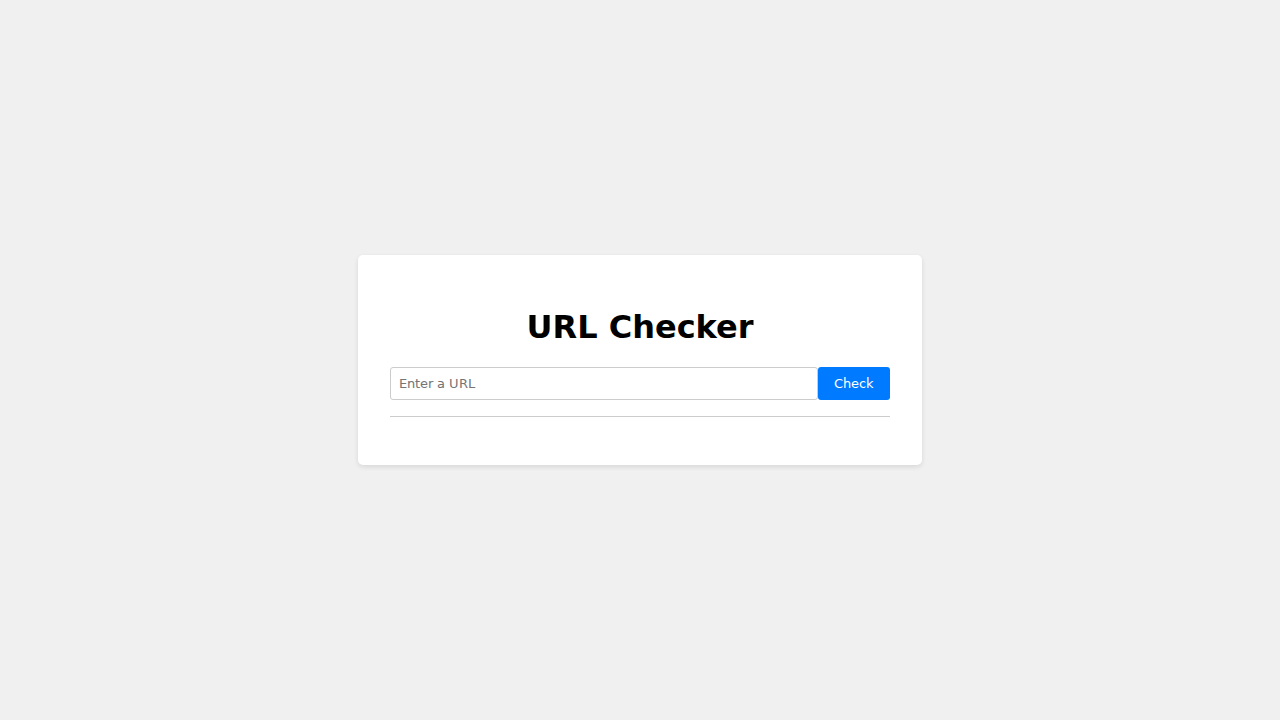
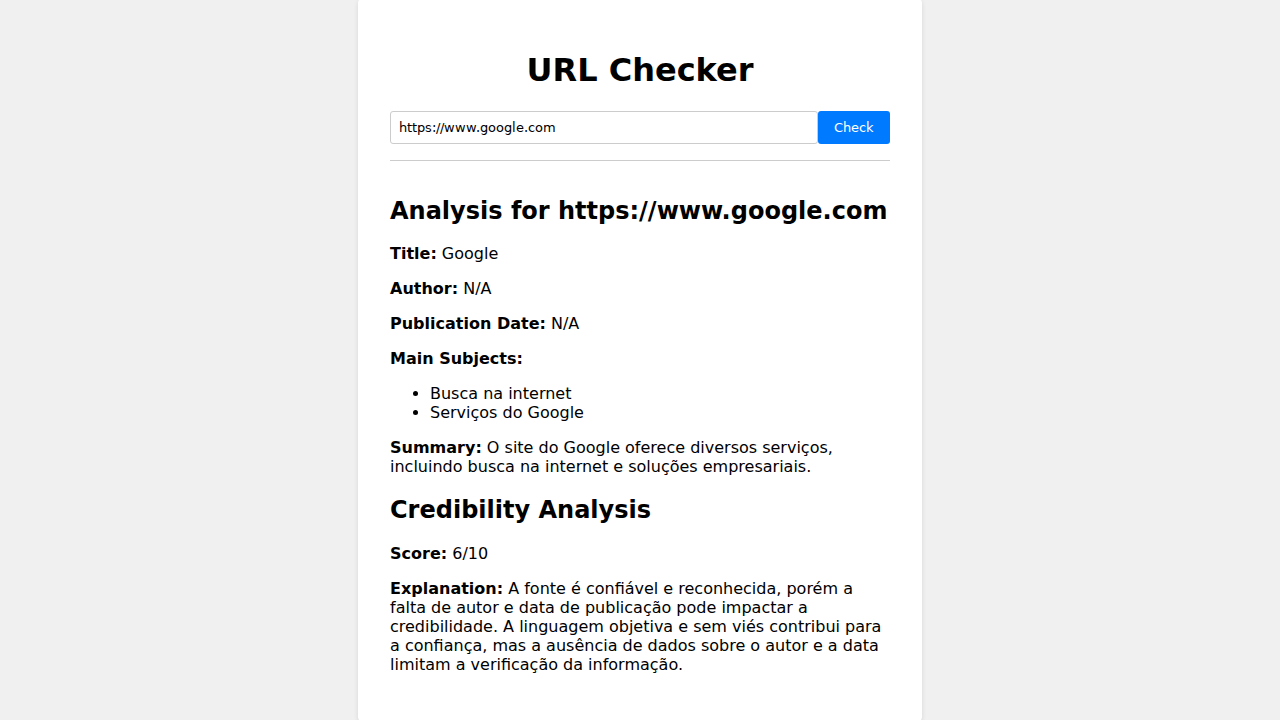
feat: Add credibility analysis feature
This commit enhances the application by turning it into a fact-checking tool.

The backend prompt for the OpenAI API has been significantly updated to include a detailed set of credibility criteria. The LLM is now instructed to return a `credibility_score` (from 1 to 10) and a `credibility_explanation` along with the content summary.

The frontend has been updated to display this new information. The `index.html` file now includes a dedicated section for the credibility analysis, and the `script.js` file has been modified to parse and render the new data fields from the API response. This provides users with a more comprehensive analysis of the URL's content.

diff --git a/frontend/script.js b/frontend/script.js
@@ -15,16 +15,24 @@ form.addEventListener('submit', async (event) => {
             resultsDiv.innerHTML = `<p>Error: ${data.error}</p>`;
         } else {
             const analysis = data.llm_analysis;
+            // Rebuild the entire content of the results div
             resultsDiv.innerHTML = `
-                <h2>Analysis for ${analysis.fonte}</h2>
-                <p><strong>Title:</strong> ${analysis.titulo}</p>
-                <p><strong>Author:</strong> ${analysis.autor || 'N/A'}</p>
-                <p><strong>Publication Date:</strong> ${analysis.data_publicacao || 'N/A'}</p>
-                <p><strong>Main Subjects:</strong></p>
-                <ul>
-                    ${analysis.principais_assuntos.map(subject => `<li>${subject}</li>`).join('')}
-                </ul>
-                <p><strong>Summary:</strong> ${analysis.resumo}</p>
+                <div id="summary">
+                    <h2>Analysis for ${analysis.fonte}</h2>
+                    <p><strong>Title:</strong> ${analysis.titulo}</p>
+                    <p><strong>Author:</strong> ${analysis.autor || 'N/A'}</p>
+                    <p><strong>Publication Date:</strong> ${analysis.data_publicacao || 'N/A'}</p>
+                    <p><strong>Main Subjects:</strong></p>
+                    <ul>
+                        ${analysis.principais_assuntos.map(subject => `<li>${subject}</li>`).join('')}
+                    </ul>
+                    <p><strong>Summary:</strong> ${analysis.resumo}</p>
+                </div>
+                <div id="credibility-analysis">
+                    <h2>Credibility Analysis</h2>
+                    <p><strong>Score:</strong> ${analysis.credibility_score}/10</p>
+                    <p><strong>Explanation:</strong> ${analysis.credibility_explanation}</p>
+                </div>
             `;
         }
     } catch (error) {

diff --git a/frontend/index.html b/frontend/index.html
@@ -13,7 +13,10 @@
             <input type="text" id="url-input" placeholder="Enter a URL" required>
             <button type="submit">Check</button>
         </form>
-        <div id="results"></div>
+        <div id="results">
+            <div id="summary"></div>
+            <div id="credibility-analysis"></div>
+        </div>
     </div>
     <script src="script.js"></script>
 </body>

diff --git a/backend/main.py b/backend/main.py
@@ -32,13 +32,28 @@ client = OpenAI(api_key=openai_api_key)
 
 def build_prompt(content: str, url: str) -> str:
     """
-    Constrói o prompt para a análise do conteúdo pela LLM.
+    Constrói o prompt para a análise do conteúdo e credibilidade pela LLM.
     """
+    credibility_criteria = (
+        "1. Expertise do Autor: O autor é um especialista reconhecido no assunto? A identidade é clara?\n"
+        "2. Qualidade das Fontes: As fontes são citadas, confiáveis e verificáveis?\n"
+        "3. Tom e Viés: A linguagem é objetiva ou tendenciosa/emocional? Distingue fato de opinião?\n"
+        "4. Data de Publicação: A informação está atualizada e a data é visível?\n"
+        "5. Verificação e Corroboração: A informação pode ser verificada por outras fontes independentes?\n"
+        "6. Padrões de Desinformação: Utiliza falácias, manipulação emocional ou títulos enganosos?"
+    )
+
     return (
         f"Analise o seguinte conteúdo extraído do site {url}. "
-        "Retorne um dicionário JSON com os seguintes campos: 'fonte' (a URL original), "
+        "Primeiro, retorne um resumo com os seguintes campos: 'fonte' (a URL original), "
         "'titulo', 'principais_assuntos' (uma lista de strings), 'data_publicacao' (se houver, em formato AAAA-MM-DD), "
-        "'autor' (se houver), e 'resumo' (um resumo objetivo de até 2 linhas)."
+        "'autor' (se houver), e 'resumo' (um resumo objetivo de até 2 linhas).\n\n"
+        "Depois, faça uma análise de credibilidade do conteúdo com base nos seguintes critérios:\n"
+        f"{credibility_criteria}\n\n"
+        "Com base na sua análise, adicione os seguintes campos ao JSON: "
+        "'credibility_score' (um número inteiro de 1 a 10, onde 1 é 'nada confiável' e 10 é 'muito confiável') e "
+        "'credibility_explanation' (uma explicação concisa de até 3 linhas justificando a pontuação com base nos critérios).\n\n"
+        "O formato final deve ser um único dicionário JSON."
         f"\n\nConteúdo para análise:\n'''{content[:4000]}'''" # Limita o conteúdo para evitar exceder o limite de tokens
     )
 

diff --git a/jules-scratch/verification/verify_frontend.py b/jules-scratch/verification/verify_frontend.py
@@ -6,8 +6,19 @@ def run():
         browser = p.chromium.launch()
         page = browser.new_page()
         page.goto('file://' + os.path.abspath('frontend/index.html'))
-        expect(page.locator("h1")).to_have_text("URL Checker")
-        page.screenshot(path="jules-scratch/verification/verification.png")
-        browser.close()
+        page.get_by_placeholder("Enter a URL").fill("https://www.google.com")
+        page.get_by_role("button", name="Check").click()
+
+        try:
+            # Wait for the specific element to appear
+            expect(page.locator("#credibility-analysis h2")).to_contain_text("Credibility Analysis", timeout=15000)
+            page.screenshot(path="jules-scratch/verification/verification.png")
+        except Exception as e:
+            # If it fails, print the content of the results div for debugging
+            results_content = page.locator("#results").inner_html()
+            print(f"Verification failed. Content of results div: {results_content}")
+            raise e
+        finally:
+            browser.close()
 
 run()
